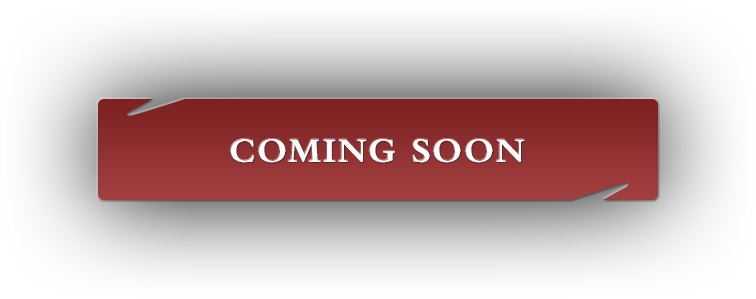
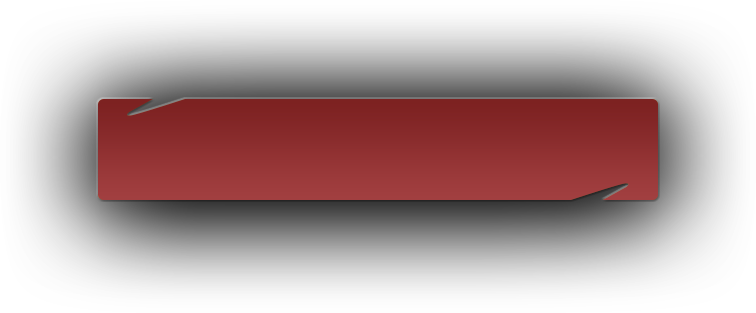
update header

diff --git a/3kingdoms/src/header/index.js b/3kingdoms/src/header/index.js
@@ -1,36 +1,68 @@
 import React from "react";
+import Dropdown from "react-bootstrap/Dropdown";
+import { useTranslation } from "react-i18next";
 
-import logo from "../images/logo.png";
 import languageImg from "../images/language.png";
 
 import styles from "./index.module.css";
 
+const lngs = {
+  en: { nativeName: "English" },
+  zh: { nativeName: "Chinese" },
+};
+
 export const Header = () => {
+  const { t, i18n } = useTranslation();
+
   return (
     <div className={styles.headerWrapper}>
       <ul>
         {/* LEFT */}
-        <li className={styles.logoImg}>
-          <img src={logo} />
-        </li>
+        <li className={styles.logoImg}>{t("home.threekingdoms")}</li>
 
         {/* RIGHT */}
-        <li className={styles.headerRight}>
-          <img src={languageImg} />
+        {/* I18N */}
+        <li className={`${styles.headerRight} ${styles.icon} ${styles.lng}`}>
+          <Dropdown>
+            <Dropdown.Toggle>
+              <img src={languageImg} />
+            </Dropdown.Toggle>
+            <Dropdown.Menu className={styles.dropdownMenu}>
+              {Object.keys(lngs).map((lng) => (
+                <Dropdown.Item
+                  style={{
+                    fontWeight:
+                      i18n.resolvedLanguage === lng ? "bold" : "normal",
+                  }}
+                  onClick={() => {
+                    i18n.changeLanguage(lng);
+                  }}
+                >
+                  {lngs[lng].nativeName}
+                </Dropdown.Item>
+              ))}
+            </Dropdown.Menu>
+          </Dropdown>
         </li>
-        <li className={styles.headerRight}>
-          <span className={styles.discord}></span>
+        {/* discord */}
+        <li className={`${styles.headerRight} ${styles.icon}`}>
+          <a
+            href={"https://discord.com/invite/2HGQ7FdJDu"}
+            target="_blank"
+            className={styles.discord}
+          ></a>
         </li>
-        <li className={styles.headerRight}>
-          <span className={styles.twitter}></span>
+        {/* twitter */}
+        <li className={`${styles.headerRight} ${styles.icon}`}>
+          <a
+            href={"https://twitter.com/3KingdomsClub"}
+            target="_blank"
+            className={styles.twitter}
+          ></a>
         </li>
-        <li className={styles.headerRight}>
-          <span className={styles.opensea}></span>
-        </li>
-        <li className={styles.headerRight}>Roadmap</li>
-        <li className={styles.headerRight}>Team</li>
-        <li className={styles.headerRight}>
-          <a href="/">Home</a>
+        {/* Home */}
+        <li className={`${styles.headerRight} ${styles.headerText}`}>
+          <a href="/"> {t("home.home")}</a>
         </li>
       </ul>
     </div>

diff --git a/3kingdoms/src/header/index.module.css b/3kingdoms/src/header/index.module.css
@@ -17,9 +17,11 @@
 
 .headerWrapper ul li {
   float: left;
+  min-width: 50px;
   height: 50px;
-  line-height: 50px;
-  font-size: 14px;
+  font-size: 18px;
+  display: flex;
+  align-items: center;
 }
 
 .headerWrapper ul li img {
@@ -29,11 +31,18 @@
 
 .headerWrapper ul li.headerRight {
   float: right;
-  margin: 0 10px;
 }
 
 .headerWrapper ul li.logoImg {
   margin-top: 10px;
+  background-image: url("../images/logo.png");
+  background-position: center;
+  background-repeat: no-repeat;
+  display: flex;
+  height: 30px;
+  align-items: center;
+  padding: 0 10px;
+  border-radius: 3px;
 }
 
 .headerWrapper ul li.headerRight img {
@@ -49,6 +58,7 @@
 
 .headerWrapper ul li.headerRight a:hover {
   cursor: pointer;
+  background-color: black;
 }
 
 .headerWrapper ul li.headerRight .opensea {
@@ -71,8 +81,8 @@
 }
 
 .headerWrapper ul li.headerRight .twitter {
-  width: 25px;
-  height: 25px;
+  width: 80px;
+  height: 24px;
   background-image: url("../images/twitter.png");
   background-position: center;
   background-repeat: no-repeat;
@@ -81,7 +91,7 @@
 }
 
 .headerWrapper ul li.headerRight .twitter:hover {
-  width: 50px;
+  width: 80px;
   height: 50px;
   cursor: pointer;
   background-image: url("../images/twitter_click.png");
@@ -90,8 +100,8 @@
 }
 
 .headerWrapper ul li.headerRight .discord {
-  width: 30px;
-  height: 23px;
+  width: 80px;
+  height: 25px;
   background-image: url("../images/discord.png");
   background-position: center;
   background-repeat: no-repeat;
@@ -100,10 +110,32 @@
 }
 
 .headerWrapper ul li.headerRight .discord:hover {
-  width: 50px;
+  width: 80px;
   height: 50px;
   cursor: pointer;
   background-image: url("../images/discord_click.png");
   background-position: center;
   background-repeat: no-repeat;
+}
+
+.headerWrapper ul li.headerRight button {
+  background: none;
+  border: none;
+}
+
+.headerWrapper .headerRight .dropdownMenu {
+  position: fixed !important;
+  background-color: var(--color-dark-grey);
+}
+
+.headerWrapper .headerRight.icon {
+  border-left: 1px solid lightgrey;
+}
+
+.headerWrapper .headerRight.icon.lng {
+  padding-left: 10px;
+}
+
+.headerWrapper .headerRight.headerText {
+  margin-right: 15px;
 }

diff --git a/3kingdoms/src/i18n.js b/3kingdoms/src/i18n.js
@@ -1,0 +1,23 @@
+import i18n from "i18next";
+import { initReactI18next } from "react-i18next";
+import LanguageDetector from "i18next-browser-languagedetector";
+import resources from "./resources";
+
+i18n
+  // detect user language
+  // learn more: https://github.com/i18next/i18next-browser-languageDetector
+  .use(LanguageDetector)
+  // pass the i18n instance to react-i18next.
+  .use(initReactI18next)
+  // init i18next
+  // for all options read: https://www.i18next.com/overview/configuration-options
+  .init({
+    debug: true,
+    fallbackLng: "en",
+    interpolation: {
+      escapeValue: false, // not needed for react as it escapes by default
+    },
+    resources,
+  });
+
+export default i18n;

diff --git a/3kingdoms/src/content/index.js b/3kingdoms/src/content/index.js
@@ -1,16 +1,17 @@
 import React from "react";
 
 import csImg from "../images/coming soon.png";
+import { useTranslation } from "react-i18next";
 
 import styles from "./index.module.css";
 
 export const Content = () => {
+  const { t } = useTranslation();
+
   return (
     <div className={styles.contentWrapper}>
       <div className={styles.banner}>
-        <div className={styles.title}>
-          <img src={csImg} />
-        </div>
+        <div className={styles.title}>{t("home.comingsoon")}</div>
       </div>
     </div>
   );

diff --git a/3kingdoms/src/resources.js b/3kingdoms/src/resources.js
@@ -1,0 +1,22 @@
+module.exports = {
+  en: {
+    translation: {
+      home: {
+        threekingdoms: "Three Kingdoms",
+        home: "home",
+        copyright: "COPYRIGHT 2022 three kingdoms",
+        comingsoon: "Coming Soon",
+      },
+    },
+  },
+  zh: {
+    translation: {
+      home: {
+        threekingdoms: "三国",
+        home: "主页",
+        copyright: "版权 2022 三国",
+        comingsoon: "即将开始",
+      },
+    },
+  },
+};

diff --git a/3kingdoms/src/content/index.module.css b/3kingdoms/src/content/index.module.css
@@ -15,4 +15,15 @@
 .contentWrapper .banner .title {
   font-size: 72px;
   font-weight: 600;
+  background-image: url("../images/coming\ soon.png");
+  background-position: center;
+  background-repeat: no-repeat;
+  background-size: cover;
+  padding: 63px 111px 76px;
+}
+
+@media screen and (max-width: 657px) {
+  .contentWrapper .banner .title {
+    font-size: 27px;
+  }
 }

diff --git a/3kingdoms/src/footer/index.js b/3kingdoms/src/footer/index.js
@@ -1,11 +1,13 @@
 import React from "react";
+import { useTranslation } from "react-i18next";
 
 import styles from "./index.module.css";
 
 export const Footer = () => {
+  const { t } = useTranslation();
   return (
     <div className={styles.footerWrapper}>
-      <p>COPYRIGHT 2022 three kingdoms</p>
+      <p>{t("home.copyright")}</p>
     </div>
   );
 };

diff --git a/3kingdoms/public/index.html b/3kingdoms/public/index.html
@@ -13,6 +13,7 @@
       user's mobile device or desktop. See https://developers.google.com/web/fundamentals/web-app-manifest/
     -->
     <link rel="manifest" href="%PUBLIC_URL%/manifest.json" />
+    
     <!--
       Notice the use of %PUBLIC_URL% in the tags above.
       It will be replaced with the URL of the `public` folder during the build.

diff --git a/3kingdoms/src/index.css b/3kingdoms/src/index.css
@@ -6,6 +6,9 @@ body {
   -webkit-font-smoothing: antialiased;
   -moz-osx-font-smoothing: grayscale;
   background-color: var(--color-dark-grey);
+  background-image: url("./images/bg.png");
+  background-size: cover;
+  background-position: center;
 }
 
 code {

diff --git a/3kingdoms/src/index.js b/3kingdoms/src/index.js
@@ -3,6 +3,7 @@ import ReactDOM from "react-dom";
 import "./index.css";
 import App from "./App";
 import reportWebVitals from "./reportWebVitals";
+import "bootstrap/dist/css/bootstrap.min.css";
 
 ReactDOM.render(
   <React.StrictMode>

diff --git a/3kingdoms/src/App.js b/3kingdoms/src/App.js
@@ -1,6 +1,7 @@
 import { BrowserRouter as Router, Routes, Route } from "react-router-dom";
 import { Home } from "./home";
 import React from "react";
+import "./i18n";
 
 class App extends React.Component {
   constructor(props) {

diff --git a/3kingdoms/src/home/index.module.css b/3kingdoms/src/home/index.module.css
@@ -1,6 +1,2 @@
 .homeWrapper {
-  background-image: url("../images/bg.png");
-  background-position: center;
-  background-repeat: no-repeat;
-  min-height: 100vh;
 }
